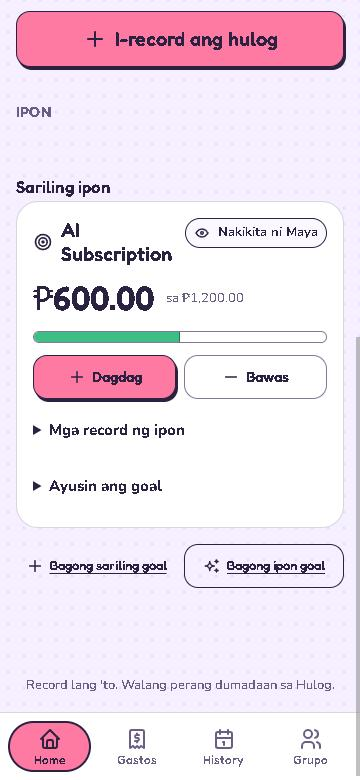
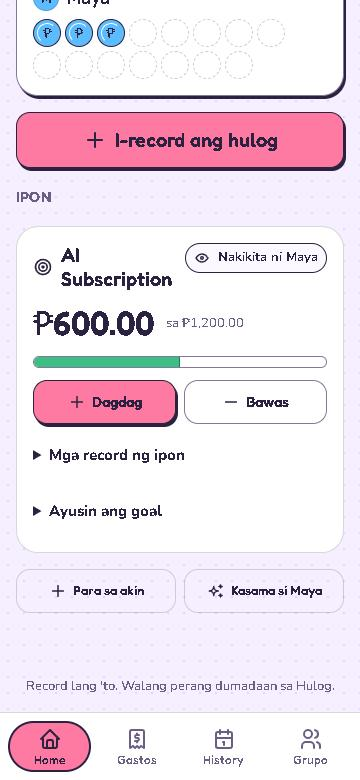
Home Ipon polish: remove gap, clearer add buttons, sub-labels only when needed

diff --git a/src/screens/Home.tsx b/src/screens/Home.tsx
@@ -49,6 +49,12 @@ export default function Home(props: ViewProps) {
     )
     .sort((a, b) => b.created_at.localeCompare(a.created_at));
 
+  const hasPersonal = (data.personalGoals ?? []).some(
+    (g) => !g.deleted_at && (g.owner_id === user || g.visibility === "shared"),
+  );
+  const partner = data.memberships.find(
+    (m) => m.status === "active" && m.user_id !== user,
+  );
   return (
     <>
       <h1 className="sr-only">{group.name}</h1>
@@ -293,6 +299,9 @@ export default function Home(props: ViewProps) {
 
       <section className="ipon-home-section">
         <h2 className="section-label">{t("Ipon")}</h2>
+        {activeGoals.length > 0 && hasPersonal && (
+          <h3 className="sub-label">{t("Ipon goals")}</h3>
+        )}
         {activeGoals.map((g) => (
           <div key={g.id} className="ipon-home-item">
             <IponCard
@@ -316,11 +325,16 @@ export default function Home(props: ViewProps) {
         ))}
         <PersonalSavings
           {...props}
+          siblingGoals={activeGoals.length > 0}
           trailing={
             activeGoals.length < 3 ? (
               <Link className="button quiet" to="/ipon/new">
                 <IconSparkles size={18} aria-hidden="true" />{" "}
-                {t("New ipon goal")}
+                {partner
+                  ? t("With {name}", {
+                      name: name(data, partner.user_id).trim().split(/\s+/)[0],
+                    })
+                  : t("With partner")}
               </Link>
             ) : undefined
           }

diff --git a/src/components/PersonalSavings.tsx b/src/components/PersonalSavings.tsx
@@ -401,8 +401,9 @@ export function PersonalGoalCard({
 }
 export default function PersonalSavings({
   trailing,
+  siblingGoals,
   ...props
-}: ViewProps & { trailing?: ReactNode }) {
+}: ViewProps & { trailing?: ReactNode; siblingGoals?: boolean }) {
   const [creating, setCreating] = useState(false);
   const goals = (props.data.personalGoals ?? []).filter(
     (g) =>
@@ -414,7 +415,16 @@ export default function PersonalSavings({
       id="personal-savings"
       aria-labelledby="personal-savings-title"
     >
-      <h3 id="personal-savings-title">{t("Personal savings")}</h3>
+      <h3
+        id="personal-savings-title"
+        className={
+          siblingGoals === undefined || (siblingGoals && goals.length > 0)
+            ? undefined
+            : "sr-only"
+        }
+      >
+        {t("Personal savings")}
+      </h3>
       {goals.map((goal) => (
         <PersonalGoalCard key={goal.id} goal={goal} {...props} />
       ))}
@@ -431,7 +441,7 @@ export default function PersonalSavings({
             disabled={props.busy}
             onClick={() => setCreating(true)}
           >
-            <IconPlus size={18} aria-hidden="true" /> {t("New personal goal")}
+            <IconPlus size={18} aria-hidden="true" /> {t("Just me")}
           </button>
           {trailing}
         </div>

diff --git a/src/i18n.ts b/src/i18n.ts
@@ -2,6 +2,9 @@ import { useSyncExternalStore } from "react";
 
 export type Lang = "en" | "tl" | "taglish";
 const taglish = {
+  "Just me": "Para sa akin",
+  "With partner": "Kasama ang partner",
+  "With {name}": "Kasama si {name}",
   Expenses: "Gastos",
   Grupo: "Grupo",
   App: "App",
@@ -495,6 +498,9 @@ const taglish = {
 export type Key = keyof typeof taglish;
 type Dictionary = Record<Key, string>;
 const en = {
+  "Just me": "Just me",
+  "With partner": "With partner",
+  "With {name}": "With {name}",
   Expenses: "Expenses",
   Grupo: "Group",
   App: "App",
@@ -982,6 +988,9 @@ const en = {
   "Take out savings": "Take out",
 } satisfies Dictionary;
 const tl = {
+  "Just me": "Para sa akin",
+  "With partner": "Kasama ang partner",
+  "With {name}": "Kasama si {name}",
   Expenses: "Gastos",
   Grupo: "Grupo",
   App: "App",

diff --git a/src/components/v2.test.ts b/src/components/v2.test.ts
@@ -603,7 +603,8 @@ describe("Hulog v2 Unified Home Dashboard", () => {
     expect(markup).toContain("Ipon");
     expect(markup).toContain("Japan Trip");
     expect(markup).toContain("Mag-ipon");
-    expect(markup).toContain("Bagong ipon goal");
+    expect(markup).toContain("Kasama si ");
+    expect(markup).toContain("Para sa akin");
   });
 
   it("renders friendly empty states and next-step actions across History, Tracker, Home/IponDetail, and NoGroup", () => {
@@ -1026,5 +1027,6 @@ describe("Hulog Solo Mode", () => {
     expect(group).toContain("Pot mode");
     expect(group).toContain("Together");
     expect(group).toContain("custody-ledger");
+    expect(group).toContain("₱3,750.00");
   });
 });

diff --git a/src/style.css b/src/style.css
@@ -2115,9 +2115,29 @@ nav a {
   gap: 8px;
   justify-content: center;
 }
-.ipon-add-row .quiet,
-.ipon-add-row .button {
+.ipon-add-row > .quiet,
+.ipon-add-row > .button.quiet {
   flex: 1 1 140px;
+  display: inline-flex;
+  align-items: center;
+  justify-content: center;
+  gap: 6px;
+  min-height: 44px;
+  padding: 4px 12px;
+  border: 1.5px solid var(--line);
+  border-radius: 14px;
+  text-decoration: none;
+}
+.ipon-home-section > section {
+  margin: 0;
+  padding: 0;
+}
+.ipon-home-section > h2.section-label {
+  margin-top: 4px;
+}
+.sub-label {
+  margin: 4px 0 0;
+  font-size: 15px;
 }
 .settings-grid > .settings-title {
   grid-column: 1 / -1;
